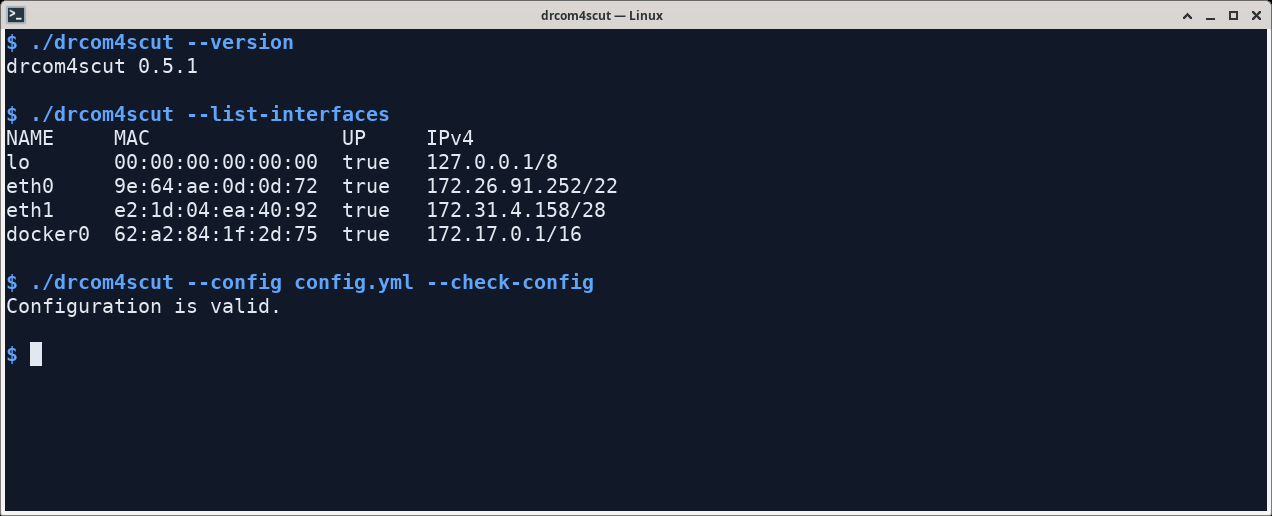
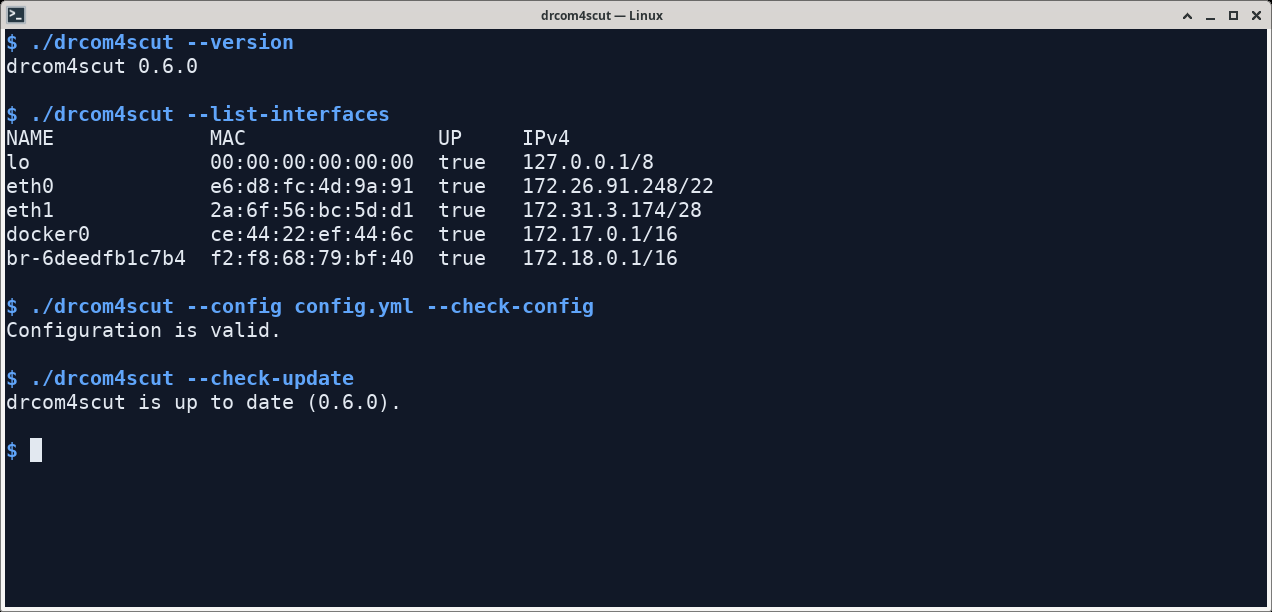
docs: publish native update screenshots and complete desktop help

Changed region(s): [[0.0, 0.0, 1.0, 0.7752], [0.0, 0.9922, 1.0, 1.0]]

diff --git a/site/tests/navigation.spec.ts b/site/tests/navigation.spec.ts
@@ -110,6 +110,12 @@ test('update help connects desktop instructions with the core commands', async (
   await page.getByRole('link', { name: '在窗口中更新图形界面或核心', exact: true }).click();
   await expect(page).toHaveURL(/\/gui\/update$/);
   await expect(page.locator('.vp-doc')).toContainText('检查核心更新');
+  const notices = page.locator('.vp-doc img[src*="-update-available.png"]');
+  await expect(notices).toHaveCount(3);
+  for (const notice of await notices.all()) {
+    await notice.scrollIntoViewIfNeeded();
+    await expect.poll(() => notice.evaluate((image: HTMLImageElement) => image.naturalWidth)).toBeGreaterThan(0);
+  }
   await page.getByRole('link', { name: '核心更新命令与自动提醒设置', exact: true }).click();
   await expect(page).toHaveURL(/\/guide\/update$/);
   await expect(page.locator('.vp-doc')).toContainText('--check-update');

diff --git a/docs/macos.md b/docs/macos.md
@@ -102,6 +102,8 @@ chmod 600 password
 
 `online` 为 `true` 表示校园网认证已完成，`updated_at` 是结果的更新时间。结束时回到运行认证的终端，按 **Ctrl-C**。合盖或拔掉网卡后，等系统恢复网络，再观察最新连接结果。
 
+运行 `./drcom4scut --check-update` 可查看最新正式版，`./drcom4scut --update` 发现新版后直接安装。重启后使用新版，账号和配置继续保留，见[更新指南](update.md)。
+
 ## 无线与 GUI
 
 校园 Wi-Fi 先在 macOS 的 Wi-Fi 菜单中连接，再打开学校登录页。本项目可代为提交受支持的 DrCOM/ePortal 账号密码页面，步骤见[校园网页登录](portal.md)。

diff --git a/docs/linux.md b/docs/linux.md
@@ -108,6 +108,8 @@ chmod 600 password
 
 `online: true` 表示认证已完成，`updated_at` 是结果的更新时间。通过 SSH 运行时，可以在自己常用的终端会话管理器中保持程序运行；桌面用户若希望登录系统后自动连接，可使用[图形界面自动启动](https://github.com/SeaLoong/drcom4scutGUI/blob/master/docs/usage.md#自动启动和自动认证)。
 
+运行 `./drcom4scut --check-update` 可查看最新正式版，`./drcom4scut --update` 发现新版后直接安装。重启后使用新版，账号和配置继续保留，见[更新指南](update.md)。
+
 ## 常见情况
 
 | 看到什么 | 下一步 |

diff --git a/docs/update.md b/docs/update.md
@@ -28,6 +28,10 @@ Mac / Linux 终端运行：
 
 第一条只检查版本；第二条发现新版后直接下载、校验并替换核心，无需再次确认。两条命令都不进行校园认证，也不需要输入校园账号密码。使用其他配置文件时，可以加上 `--config 路径`。
 
+![Linux 终端中实际运行正式版更新检查](images/linux-cli-check.png)
+
+Linux 实际终端，运行 `--check-update` 后显示当前核心已是最新。
+
 | 显示的文字 | 接下来怎么做 |
 | --- | --- |
 | `is up to date` | 已是最新版本，可以继续使用 |

diff --git a/docs/windows.md b/docs/windows.md
@@ -103,3 +103,5 @@ notepad .\password.txt
 | 账号设置有效，但认证未成功 | 看最新日志，核对账号后缀、密码和所选网卡，按[连接与排障](troubleshooting.md)继续检查 |
 
 连接校园 Wi-Fi 时先在 Windows 中加入无线网络，再按[校园网页登录](portal.md)使用网页认证；这种方式使用普通网络连接。
+
+运行 `.\drcom4scut.exe --check-update` 可查看最新正式版，`.\drcom4scut.exe --update` 发现新版后直接安装。重启后使用新版，账号和配置继续保留，见[更新指南](update.md)。
